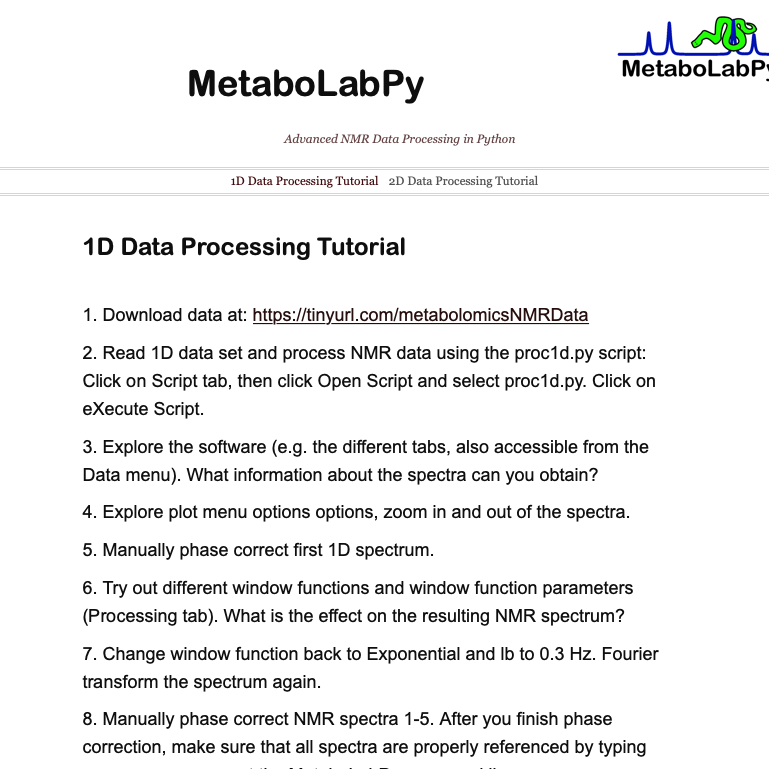
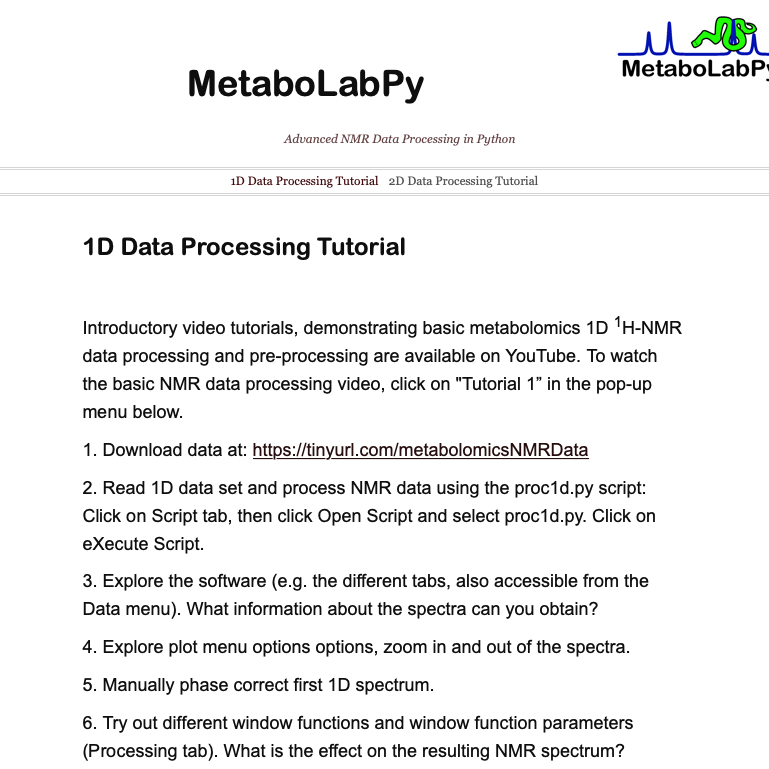
updated documentation, v. 0.8.10

Changed region(s): [[0.0936, 0.4057, 0.9051, 1.0]]

diff --git a/web/NMR_Data_Processing_Practical.sandvox/QuickLook/Preview.html b/web/NMR_Data_Processing_Practical.sandvox/QuickLook/Preview.html
@@ -138,7 +138,11 @@
 							<div class="article">
 								<div class="article-content">
 									<div class="RichTextElement">
-										<div><p><br /></p><p style="text-align: left;"><span style="font-size: 18px; font-family: Arial;">1.</span><span style="font-size: 18px; font-family: Arial;" class="Apple-tab-span"> </span><span style="font-size: 18px; font-family: Arial;">Download data at: </span><span style="font-size: 18px; font-family: Arial; color: rgb(0, 0, 149);"><u><a href="https://tinyurl.com/metabolomicsData2022">https://tinyurl.com/</a><a href="https://tinyurl.com/metabolomicsNMRData">metabolomicsNMRData</a></u></span></p><p style="text-align: left;"><span style="font-size: 18px; font-family: Arial;">2.</span><span style="font-size: 18px; font-family: Arial;" class="Apple-tab-span"> </span><span style="font-size: 18px; font-family: Arial;">Read 1D data set and process NMR data using the proc1d.py script: Click on Script tab, then click Open Script and select proc1d.py. Click on eXecute Script.</span></p><p style="text-align: left;"><span style="font-size: 18px; font-family: Arial;">3.</span><span style="font-size: 18px; font-family: Arial;" class="Apple-tab-span"> </span><span style="font-size: 18px; font-family: Arial;">Explore the software (e.g. the different tabs, also accessible from the Data menu). What information about the spectra can you obtain?</span></p><p style="text-align: left;"><span style="font-size: 18px; font-family: Arial;">4.</span><span style="font-size: 18px; font-family: Arial;" class="Apple-tab-span"> </span><span style="font-size: 18px; font-family: Arial;">Explore plot menu options options, zoom in and out of the spectra.</span></p><p style="text-align: left;"><span style="font-size: 18px; font-family: Arial;">5.</span><span style="font-size: 18px; font-family: Arial;" class="Apple-tab-span"> </span><span style="font-size: 18px; font-family: Arial;">Manually phase correct first 1D spectrum.</span></p><p style="text-align: left;"><span style="font-size: 18px; font-family: Arial;">6.</span><span style="font-size: 18px; font-family: Arial;" class="Apple-tab-span"> </span><span style="font-size: 18px; font-family: Arial;">Try out different window functions and window function parameters (Processing tab). What is the effect on the resulting NMR spectrum?</span></p><p style="text-align: left;"><span style="font-size: 18px; font-family: Arial;">7.</span><span style="font-size: 18px; font-family: Arial;" class="Apple-tab-span"> </span><span style="font-size: 18px; font-family: Arial;">Change window function back to Exponential and lb to 0.3 Hz. Fourier transform the spectrum again.</span></p><p style="text-align: left;"><span style="font-size: 18px; font-family: Arial;">8.</span><span style="font-size: 18px; font-family: Arial;" class="Apple-tab-span"> </span><span style="font-size: 18px; font-family: Arial;">Manually phase correct NMR spectra 1-5. After you finish phase correction, make sure that all spectra are properly referenced by typing </span><span style="font-style: normal; font-size: 18px; font-family: &quot;Courier New&quot;;">auto_ref_all()</span><span style="font-size: 18px; font-family: Arial;"> at the MetaboLabPy command line. </span></p><p style="text-align: left;"><span style="font-size: 18px; font-family: Arial;"><strong>9.</strong></span><strong><span style="font-size: 18px; font-family: Arial;" class="Apple-tab-span"> </span></strong><span style="font-size: 18px; font-family: Arial;"><strong>Data Pre-Processing</strong></span></p>
+										<div><p><span style="font-style: normal; font-size: 18px; font-family: Arial;"><br /></span></p><p class="MsoNormal"><span style="font-style: normal; font-size: 18px; font-family: Arial;">Introductory
+																						video tutorials, demonstrating basic metabolomics 1D <sup>1</sup>H-NMR data
+																						processing and pre-processing are available on </span><span style="font-size: 18px; font-family: Arial;">YouTube. To watch the basic NMR data processing video, click on "Tutorial 1” in the pop-up menu below.</span></p><p style="text-align: left;"><span style="font-size: 18px; font-family: Arial;">1.</span><span style="font-size: 18px; font-family: Arial;" class="Apple-tab-span"> </span><span style="font-size: 18px; font-family: Arial;">Download data at: </span><span style="font-size: 18px; font-family: Arial; color: rgb(0, 0, 149);"><u><a href="https://tinyurl.com/metabolomicsData2022">https://tinyurl.com/</a><a href="https://tinyurl.com/metabolomicsNMRData">metabolomicsNMRData</a></u></span></p><p style="text-align: left;"><span style="font-size: 18px; font-family: Arial;">2.</span><span style="font-size: 18px; font-family: Arial;" class="Apple-tab-span"> </span><span style="font-size: 18px; font-family: Arial;">Read 1D data set and process NMR data using the proc1d.py script: Click on Script tab, then click Open Script and select proc1d.py. Click on eXecute Script.</span></p><p style="text-align: left;"><span style="font-size: 18px; font-family: Arial;">3.</span><span style="font-size: 18px; font-family: Arial;" class="Apple-tab-span"> </span><span style="font-size: 18px; font-family: Arial;">Explore the software (e.g. the different tabs, also accessible from the Data menu). What information about the spectra can you obtain?</span></p><p style="text-align: left;"><span style="font-size: 18px; font-family: Arial;">4.</span><span style="font-size: 18px; font-family: Arial;" class="Apple-tab-span"> </span><span style="font-size: 18px; font-family: Arial;">Explore plot menu options options, zoom in and out of the spectra.</span></p><p style="text-align: left;"><span style="font-size: 18px; font-family: Arial;">5.</span><span style="font-size: 18px; font-family: Arial;" class="Apple-tab-span"> </span><span style="font-size: 18px; font-family: Arial;">Manually phase correct first 1D spectrum.</span></p><p style="text-align: left;"><span style="font-size: 18px; font-family: Arial;">6.</span><span style="font-size: 18px; font-family: Arial;" class="Apple-tab-span"> </span><span style="font-size: 18px; font-family: Arial;">Try out different window functions and window function parameters (Processing tab). What is the effect on the resulting NMR spectrum?</span></p><p style="text-align: left;"><span style="font-size: 18px; font-family: Arial;">7.</span><span style="font-size: 18px; font-family: Arial;" class="Apple-tab-span"> </span><span style="font-size: 18px; font-family: Arial;">Change window function back to Exponential and lb to 0.3 Hz. Fourier transform the spectrum again.</span></p><p style="text-align: left;"><span style="font-size: 18px; font-family: Arial;">8.</span><span style="font-size: 18px; font-family: Arial;" class="Apple-tab-span"> </span><span style="font-size: 18px; font-family: Arial;">Manually phase correct NMR spectra 1-5. After you finish phase correction, make sure that all spectra are properly referenced by typing </span><span style="font-style: normal; font-size: 18px; font-family: &quot;Courier New&quot;;">auto_ref_all()</span><span style="font-size: 18px; font-family: Arial;"> at the MetaboLabPy command line. </span></p><p style="text-align: left;"><span style="font-size: 18px; font-family: Arial;"><strong>9.</strong></span><strong><span style="font-size: 18px; font-family: Arial;" class="Apple-tab-span"> </span></strong><span style="font-size: 18px; font-family: Arial;"><strong>Data Pre-Processing</strong></span></p><p class="MsoNormal"><span style="font-style: normal; font-size: 18px; font-family: Arial;">An
+																						introductory video tutorial demonstrating metabolomics 1D <sup>1</sup>H-NMR
+																						data pre-processing is available on youtube. To watch the video</span><span style="font-family: Arial; font-size: 18px;">, click on "Tutorial 2” in the pop-up menu below.</span></p>
 											
 											<div class="first blockquote-container wide center">
 												<div style="" class="graphic"><blockquote class="figure-content">
@@ -217,7 +221,7 @@
 			</tr>
 			<tr>
 				<td class="quick-look-key">Last updated</td>
-				<td class="quick-look-value">10 Feb 2023 at 01:24</td>
+				<td class="quick-look-value">19 Feb 2023 at 23:48</td>
 			</tr>
 			
 			<tr>

diff --git a/metabolabpy/nmr/web/tutorials/index.html b/metabolabpy/nmr/web/tutorials/index.html
@@ -64,7 +64,11 @@
 							<div class="article">
 								<div class="article-content">
 									<div class="RichTextElement">
-										<div><p><br /></p><p style="text-align: left;"><span style="font-size: 18px; font-family: Arial;">1.</span><span style="font-size: 18px; font-family: Arial;" class="Apple-tab-span"> </span><span style="font-size: 18px; font-family: Arial;">Download data at: </span><span style="font-size: 18px; font-family: Arial; color: rgb(0, 0, 149);"><u><a href="https://tinyurl.com/metabolomicsData2022">https://tinyurl.com/</a><a href="https://tinyurl.com/metabolomicsNMRData">metabolomicsNMRData</a></u></span></p><p style="text-align: left;"><span style="font-size: 18px; font-family: Arial;">2.</span><span style="font-size: 18px; font-family: Arial;" class="Apple-tab-span"> </span><span style="font-size: 18px; font-family: Arial;">Read 1D data set and process NMR data using the proc1d.py script: Click on Script tab, then click Open Script and select proc1d.py. Click on eXecute Script.</span></p><p style="text-align: left;"><span style="font-size: 18px; font-family: Arial;">3.</span><span style="font-size: 18px; font-family: Arial;" class="Apple-tab-span"> </span><span style="font-size: 18px; font-family: Arial;">Explore the software (e.g. the different tabs, also accessible from the Data menu). What information about the spectra can you obtain?</span></p><p style="text-align: left;"><span style="font-size: 18px; font-family: Arial;">4.</span><span style="font-size: 18px; font-family: Arial;" class="Apple-tab-span"> </span><span style="font-size: 18px; font-family: Arial;">Explore plot menu options options, zoom in and out of the spectra.</span></p><p style="text-align: left;"><span style="font-size: 18px; font-family: Arial;">5.</span><span style="font-size: 18px; font-family: Arial;" class="Apple-tab-span"> </span><span style="font-size: 18px; font-family: Arial;">Manually phase correct first 1D spectrum.</span></p><p style="text-align: left;"><span style="font-size: 18px; font-family: Arial;">6.</span><span style="font-size: 18px; font-family: Arial;" class="Apple-tab-span"> </span><span style="font-size: 18px; font-family: Arial;">Try out different window functions and window function parameters (Processing tab). What is the effect on the resulting NMR spectrum?</span></p><p style="text-align: left;"><span style="font-size: 18px; font-family: Arial;">7.</span><span style="font-size: 18px; font-family: Arial;" class="Apple-tab-span"> </span><span style="font-size: 18px; font-family: Arial;">Change window function back to Exponential and lb to 0.3 Hz. Fourier transform the spectrum again.</span></p><p style="text-align: left;"><span style="font-size: 18px; font-family: Arial;">8.</span><span style="font-size: 18px; font-family: Arial;" class="Apple-tab-span"> </span><span style="font-size: 18px; font-family: Arial;">Manually phase correct NMR spectra 1-5. After you finish phase correction, make sure that all spectra are properly referenced by typing </span><span style="font-style: normal; font-size: 18px; font-family: &quot;Courier New&quot;;">auto_ref_all()</span><span style="font-size: 18px; font-family: Arial;"> at the MetaboLabPy command line. </span></p><p style="text-align: left;"><span style="font-size: 18px; font-family: Arial;"><strong>9.</strong></span><strong><span style="font-size: 18px; font-family: Arial;" class="Apple-tab-span"> </span></strong><span style="font-size: 18px; font-family: Arial;"><strong>Data Pre-Processing</strong></span></p>
+										<div><p><span style="font-style: normal; font-size: 18px; font-family: Arial;"><br /></span></p><p class="MsoNormal"><span style="font-style: normal; font-size: 18px; font-family: Arial;">Introductory
+																						video tutorials, demonstrating basic metabolomics 1D <sup>1</sup>H-NMR data
+																						processing and pre-processing are available on </span><span style="font-size: 18px; font-family: Arial;">YouTube. To watch the basic NMR data processing video, click on "Tutorial 1” in the pop-up menu below.</span></p><p style="text-align: left;"><span style="font-size: 18px; font-family: Arial;">1.</span><span style="font-size: 18px; font-family: Arial;" class="Apple-tab-span"> </span><span style="font-size: 18px; font-family: Arial;">Download data at: </span><span style="font-size: 18px; font-family: Arial; color: rgb(0, 0, 149);"><u><a href="https://tinyurl.com/metabolomicsData2022">https://tinyurl.com/</a><a href="https://tinyurl.com/metabolomicsNMRData">metabolomicsNMRData</a></u></span></p><p style="text-align: left;"><span style="font-size: 18px; font-family: Arial;">2.</span><span style="font-size: 18px; font-family: Arial;" class="Apple-tab-span"> </span><span style="font-size: 18px; font-family: Arial;">Read 1D data set and process NMR data using the proc1d.py script: Click on Script tab, then click Open Script and select proc1d.py. Click on eXecute Script.</span></p><p style="text-align: left;"><span style="font-size: 18px; font-family: Arial;">3.</span><span style="font-size: 18px; font-family: Arial;" class="Apple-tab-span"> </span><span style="font-size: 18px; font-family: Arial;">Explore the software (e.g. the different tabs, also accessible from the Data menu). What information about the spectra can you obtain?</span></p><p style="text-align: left;"><span style="font-size: 18px; font-family: Arial;">4.</span><span style="font-size: 18px; font-family: Arial;" class="Apple-tab-span"> </span><span style="font-size: 18px; font-family: Arial;">Explore plot menu options options, zoom in and out of the spectra.</span></p><p style="text-align: left;"><span style="font-size: 18px; font-family: Arial;">5.</span><span style="font-size: 18px; font-family: Arial;" class="Apple-tab-span"> </span><span style="font-size: 18px; font-family: Arial;">Manually phase correct first 1D spectrum.</span></p><p style="text-align: left;"><span style="font-size: 18px; font-family: Arial;">6.</span><span style="font-size: 18px; font-family: Arial;" class="Apple-tab-span"> </span><span style="font-size: 18px; font-family: Arial;">Try out different window functions and window function parameters (Processing tab). What is the effect on the resulting NMR spectrum?</span></p><p style="text-align: left;"><span style="font-size: 18px; font-family: Arial;">7.</span><span style="font-size: 18px; font-family: Arial;" class="Apple-tab-span"> </span><span style="font-size: 18px; font-family: Arial;">Change window function back to Exponential and lb to 0.3 Hz. Fourier transform the spectrum again.</span></p><p style="text-align: left;"><span style="font-size: 18px; font-family: Arial;">8.</span><span style="font-size: 18px; font-family: Arial;" class="Apple-tab-span"> </span><span style="font-size: 18px; font-family: Arial;">Manually phase correct NMR spectra 1-5. After you finish phase correction, make sure that all spectra are properly referenced by typing </span><span style="font-style: normal; font-size: 18px; font-family: &quot;Courier New&quot;;">auto_ref_all()</span><span style="font-size: 18px; font-family: Arial;"> at the MetaboLabPy command line. </span></p><p style="text-align: left;"><span style="font-size: 18px; font-family: Arial;"><strong>9.</strong></span><strong><span style="font-size: 18px; font-family: Arial;" class="Apple-tab-span"> </span></strong><span style="font-size: 18px; font-family: Arial;"><strong>Data Pre-Processing</strong></span></p><p class="MsoNormal"><span style="font-style: normal; font-size: 18px; font-family: Arial;">An
+																						introductory video tutorial demonstrating metabolomics 1D <sup>1</sup>H-NMR
+																						data pre-processing is available on youtube. To watch the video</span><span style="font-family: Arial; font-size: 18px;">, click on "Tutorial 2” in the pop-up menu below.</span></p>
 											
 											<div class="first blockquote-container wide center">
 												<div style="" class="graphic"><blockquote class="figure-content">

diff --git a/metabolabpy/__init__.py b/metabolabpy/__init__.py
@@ -1,4 +1,4 @@
 __author__ = 'Christian Ludwig (C.Ludwig@bham.ac.uk)'
 __credits__ = 'Christian Ludwig (C.Ludwig@bham.ac.uk)'
-__version__ = '0.8.9'
+__version__ = '0.8.10'
 __license__ = 'GPLv3'
